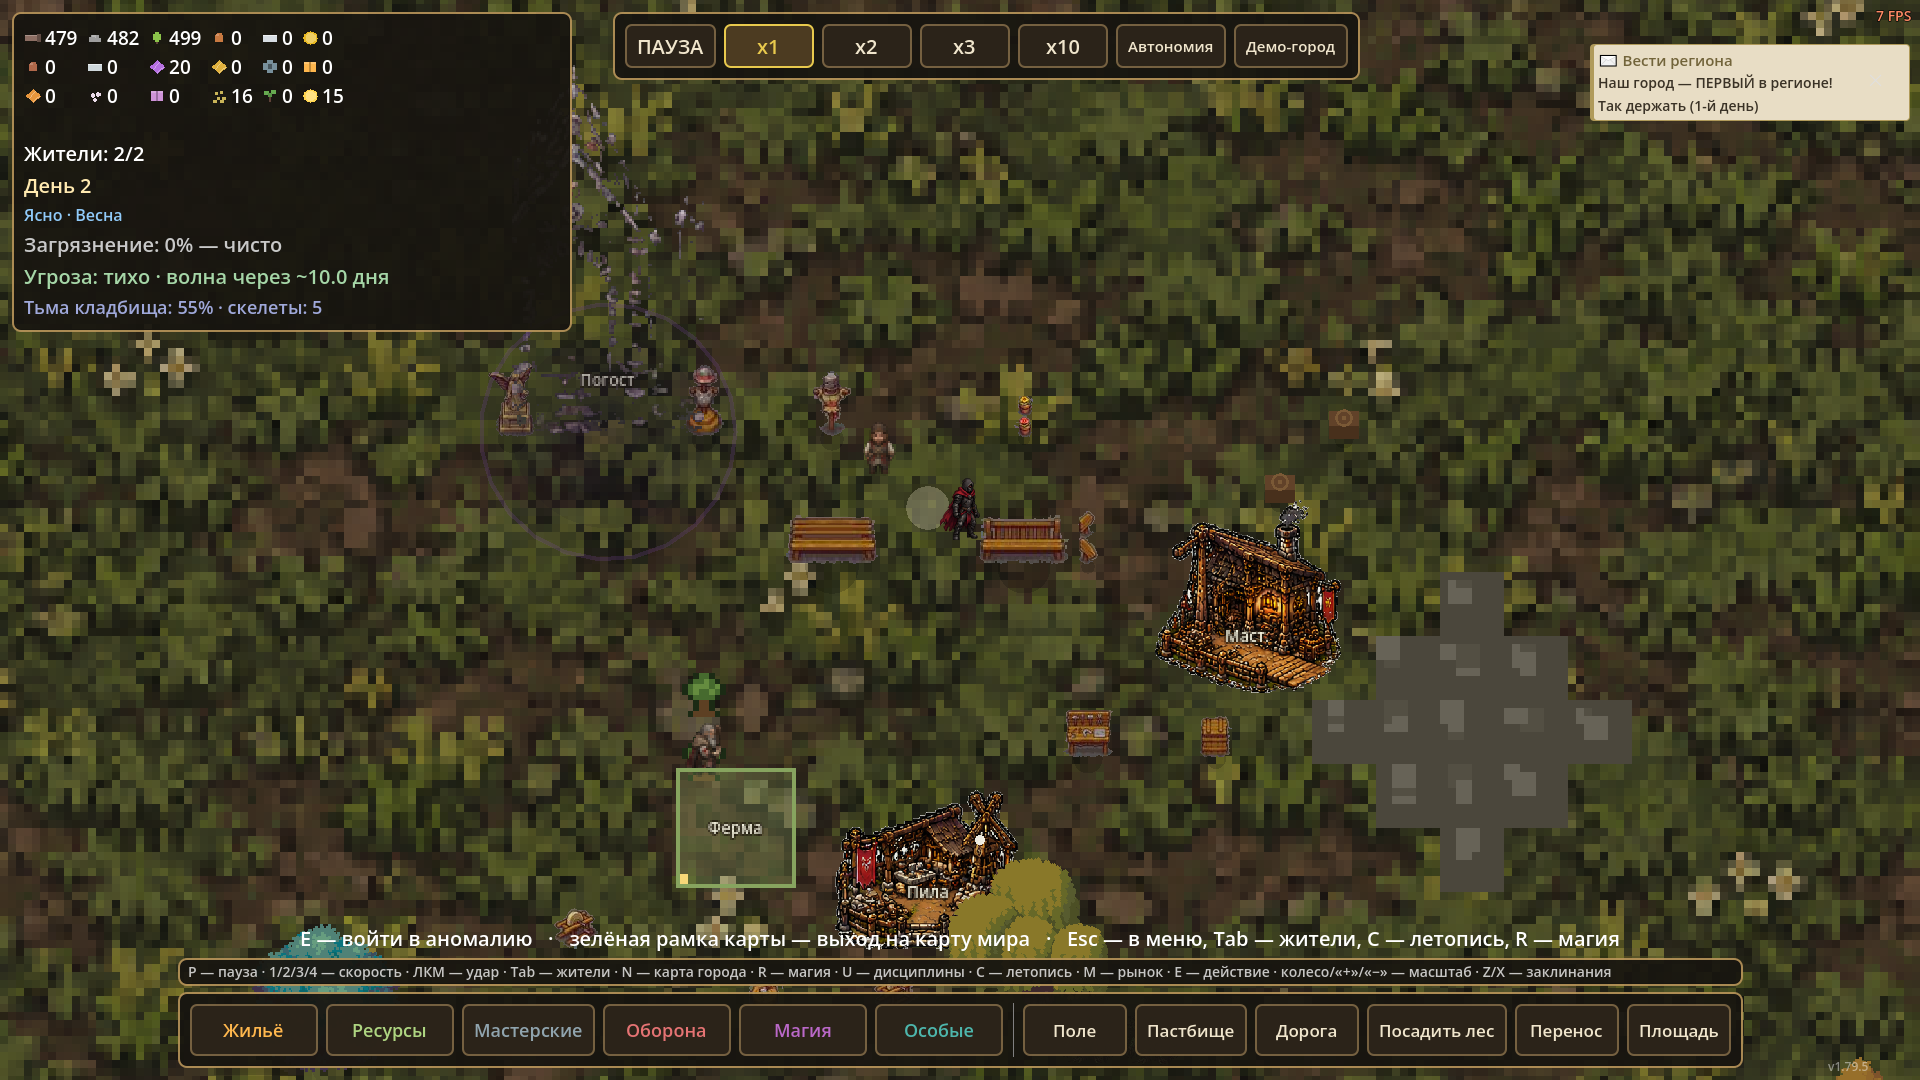
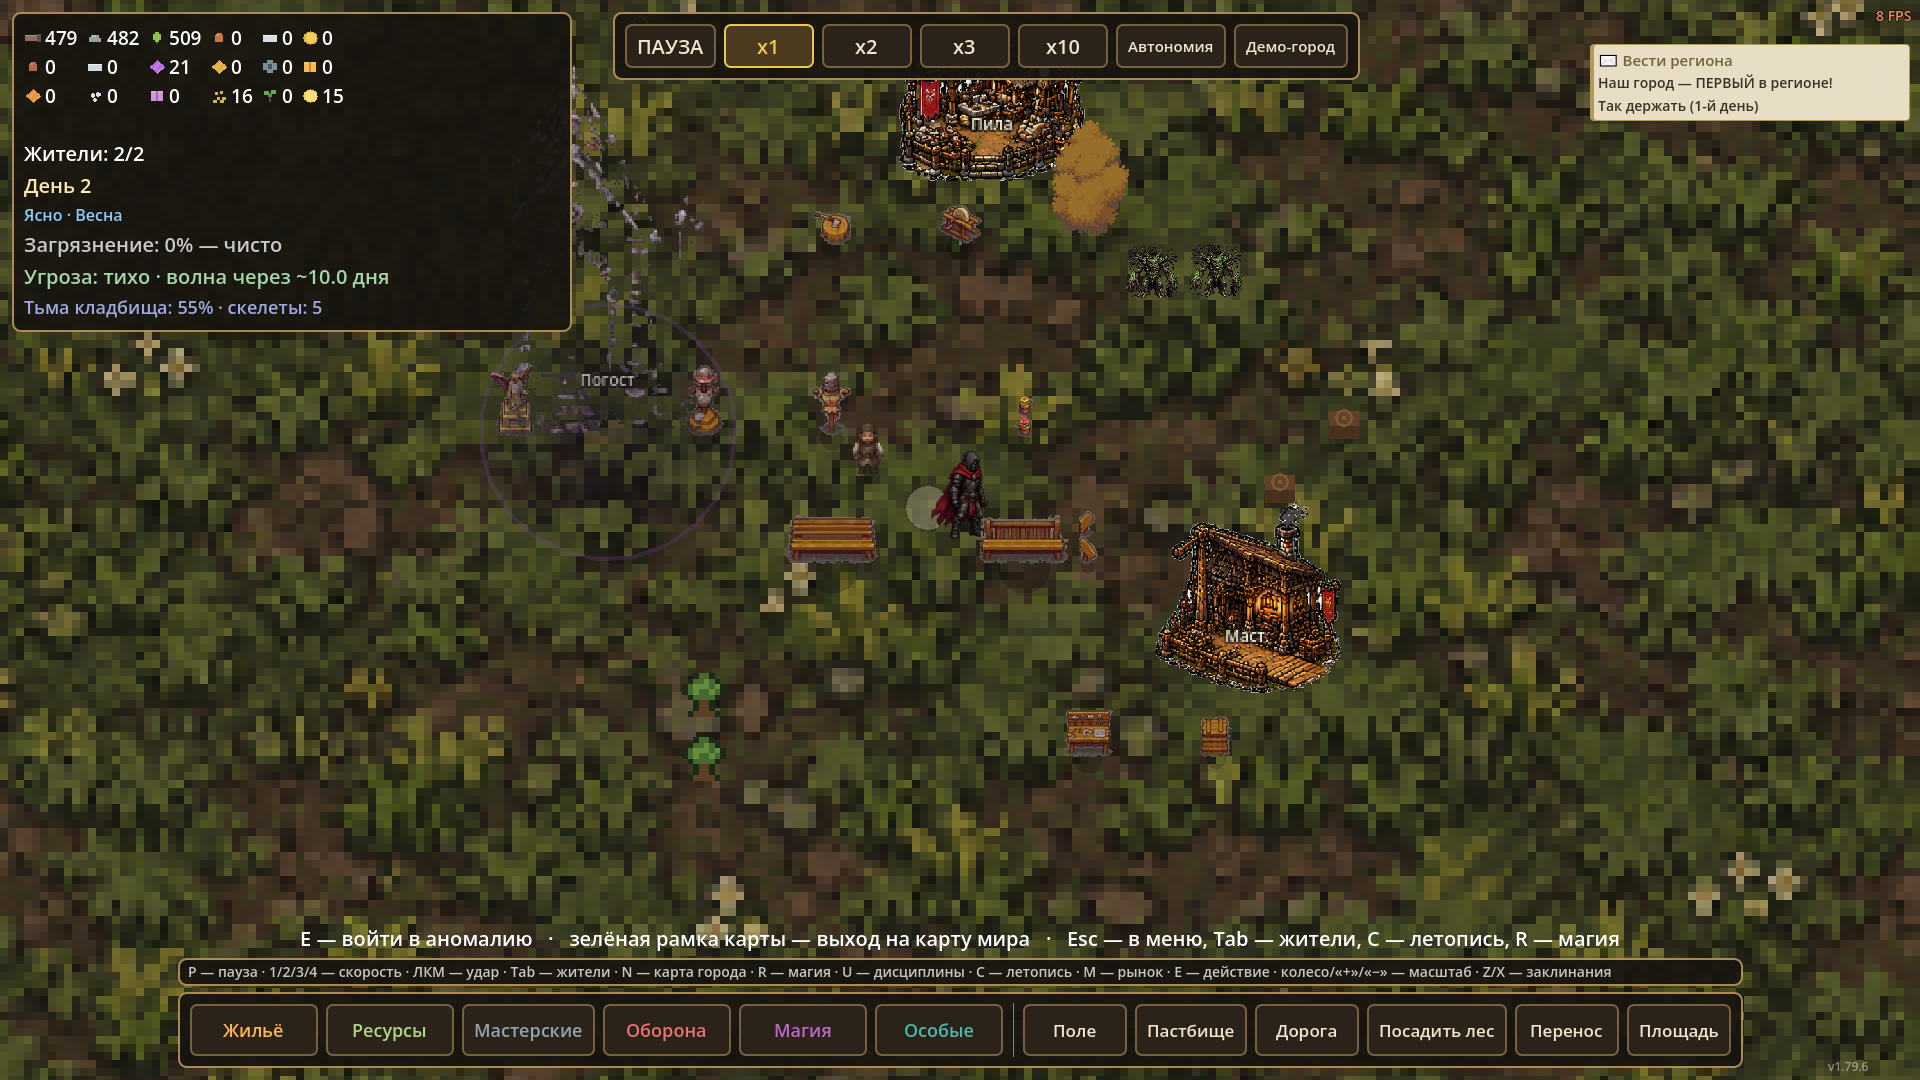
v1.79.7: герой крупнее (44px = 1.4 тайла) + бег зеркален вправо
- лист бега нарисован смотрящим ВЛЕВО — зеркалится при нарезке
  (полосы игры смотрят ВПРАВО, иначе флип в игре инвертирован:
  «бег вправо при беге влево и наоборот»)
- KNIGHT_TARGET_H 31 -> 44: герой 1.4 тайла земли (был 1 тайл —
  «соотношение героя и земли неправильное»)

diff --git a/tools/slice_hero2.py b/tools/slice_hero2.py
@@ -138,6 +138,10 @@ def main():
         strip = Image.new("RGBA", (FRAME_W * max(1, len(imgs)), FRAME_H),
                           (0, 0, 0, 0))
         for i, img in enumerate(imgs):
+            if key == "run":
+                # v1.79.2: лист бега нарисован смотрящим ВЛЕВО — полосы
+                # игры смотрят ВПРАВО (флип в hero.gd при facing.x < 0)
+                img = img.transpose(Image.FLIP_LEFT_RIGHT)
             tile = make_tile(img, key)
             strip.alpha_composite(tile, (i * FRAME_W, 0))
         name = STRIP_NAMES[key]
